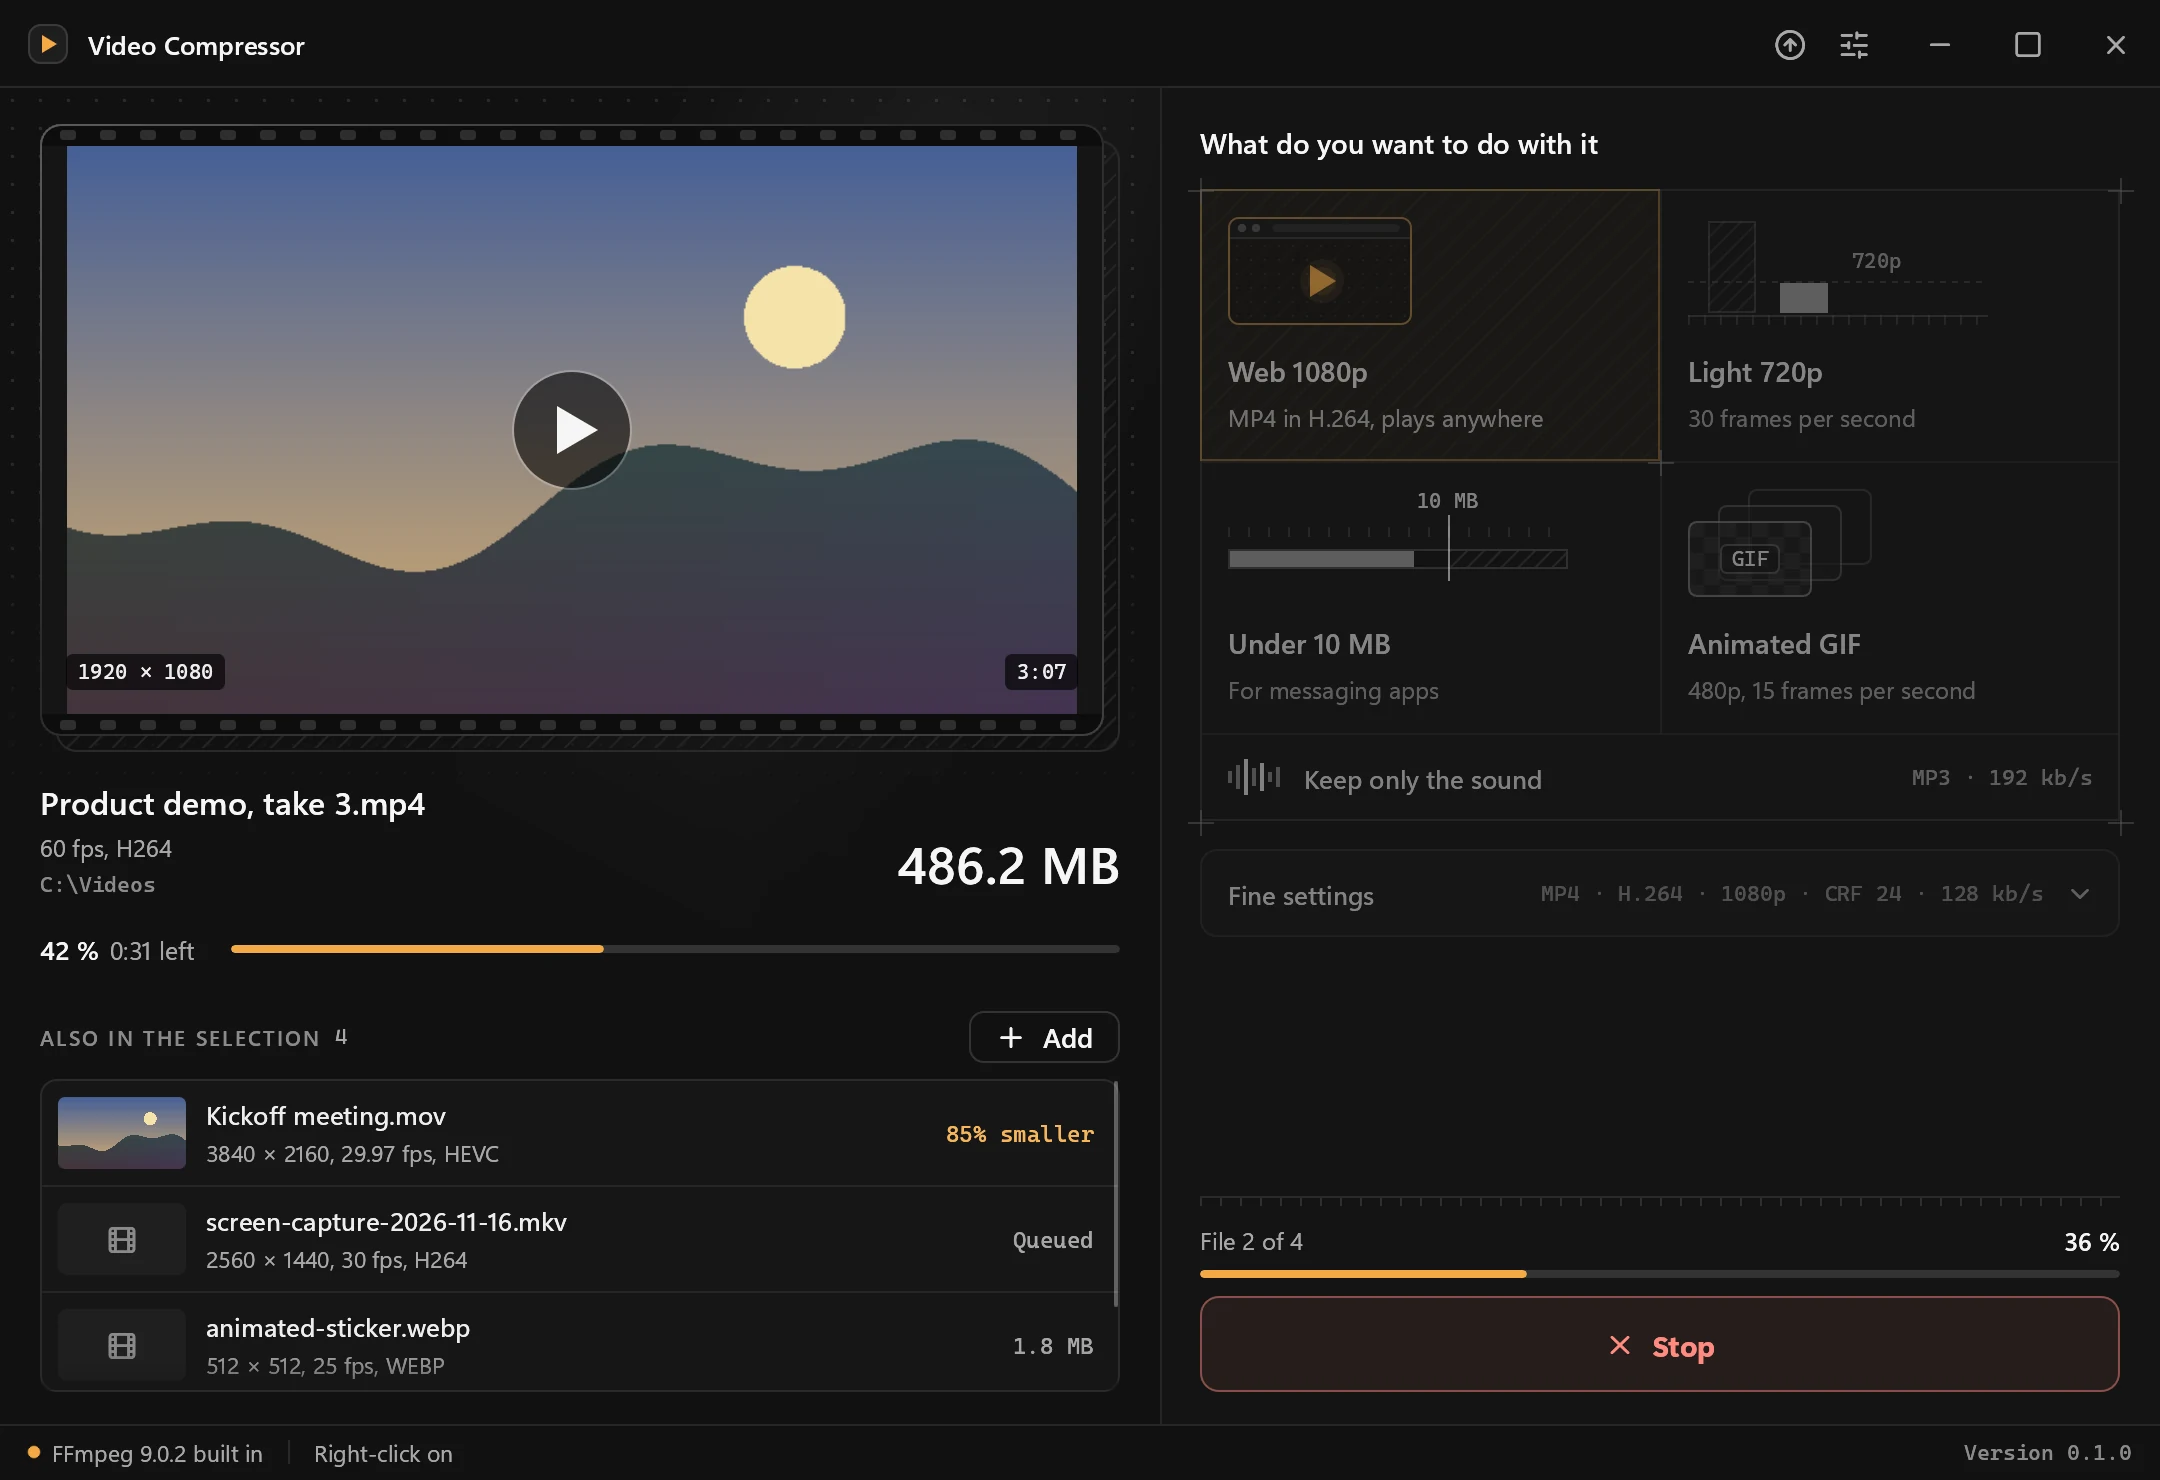
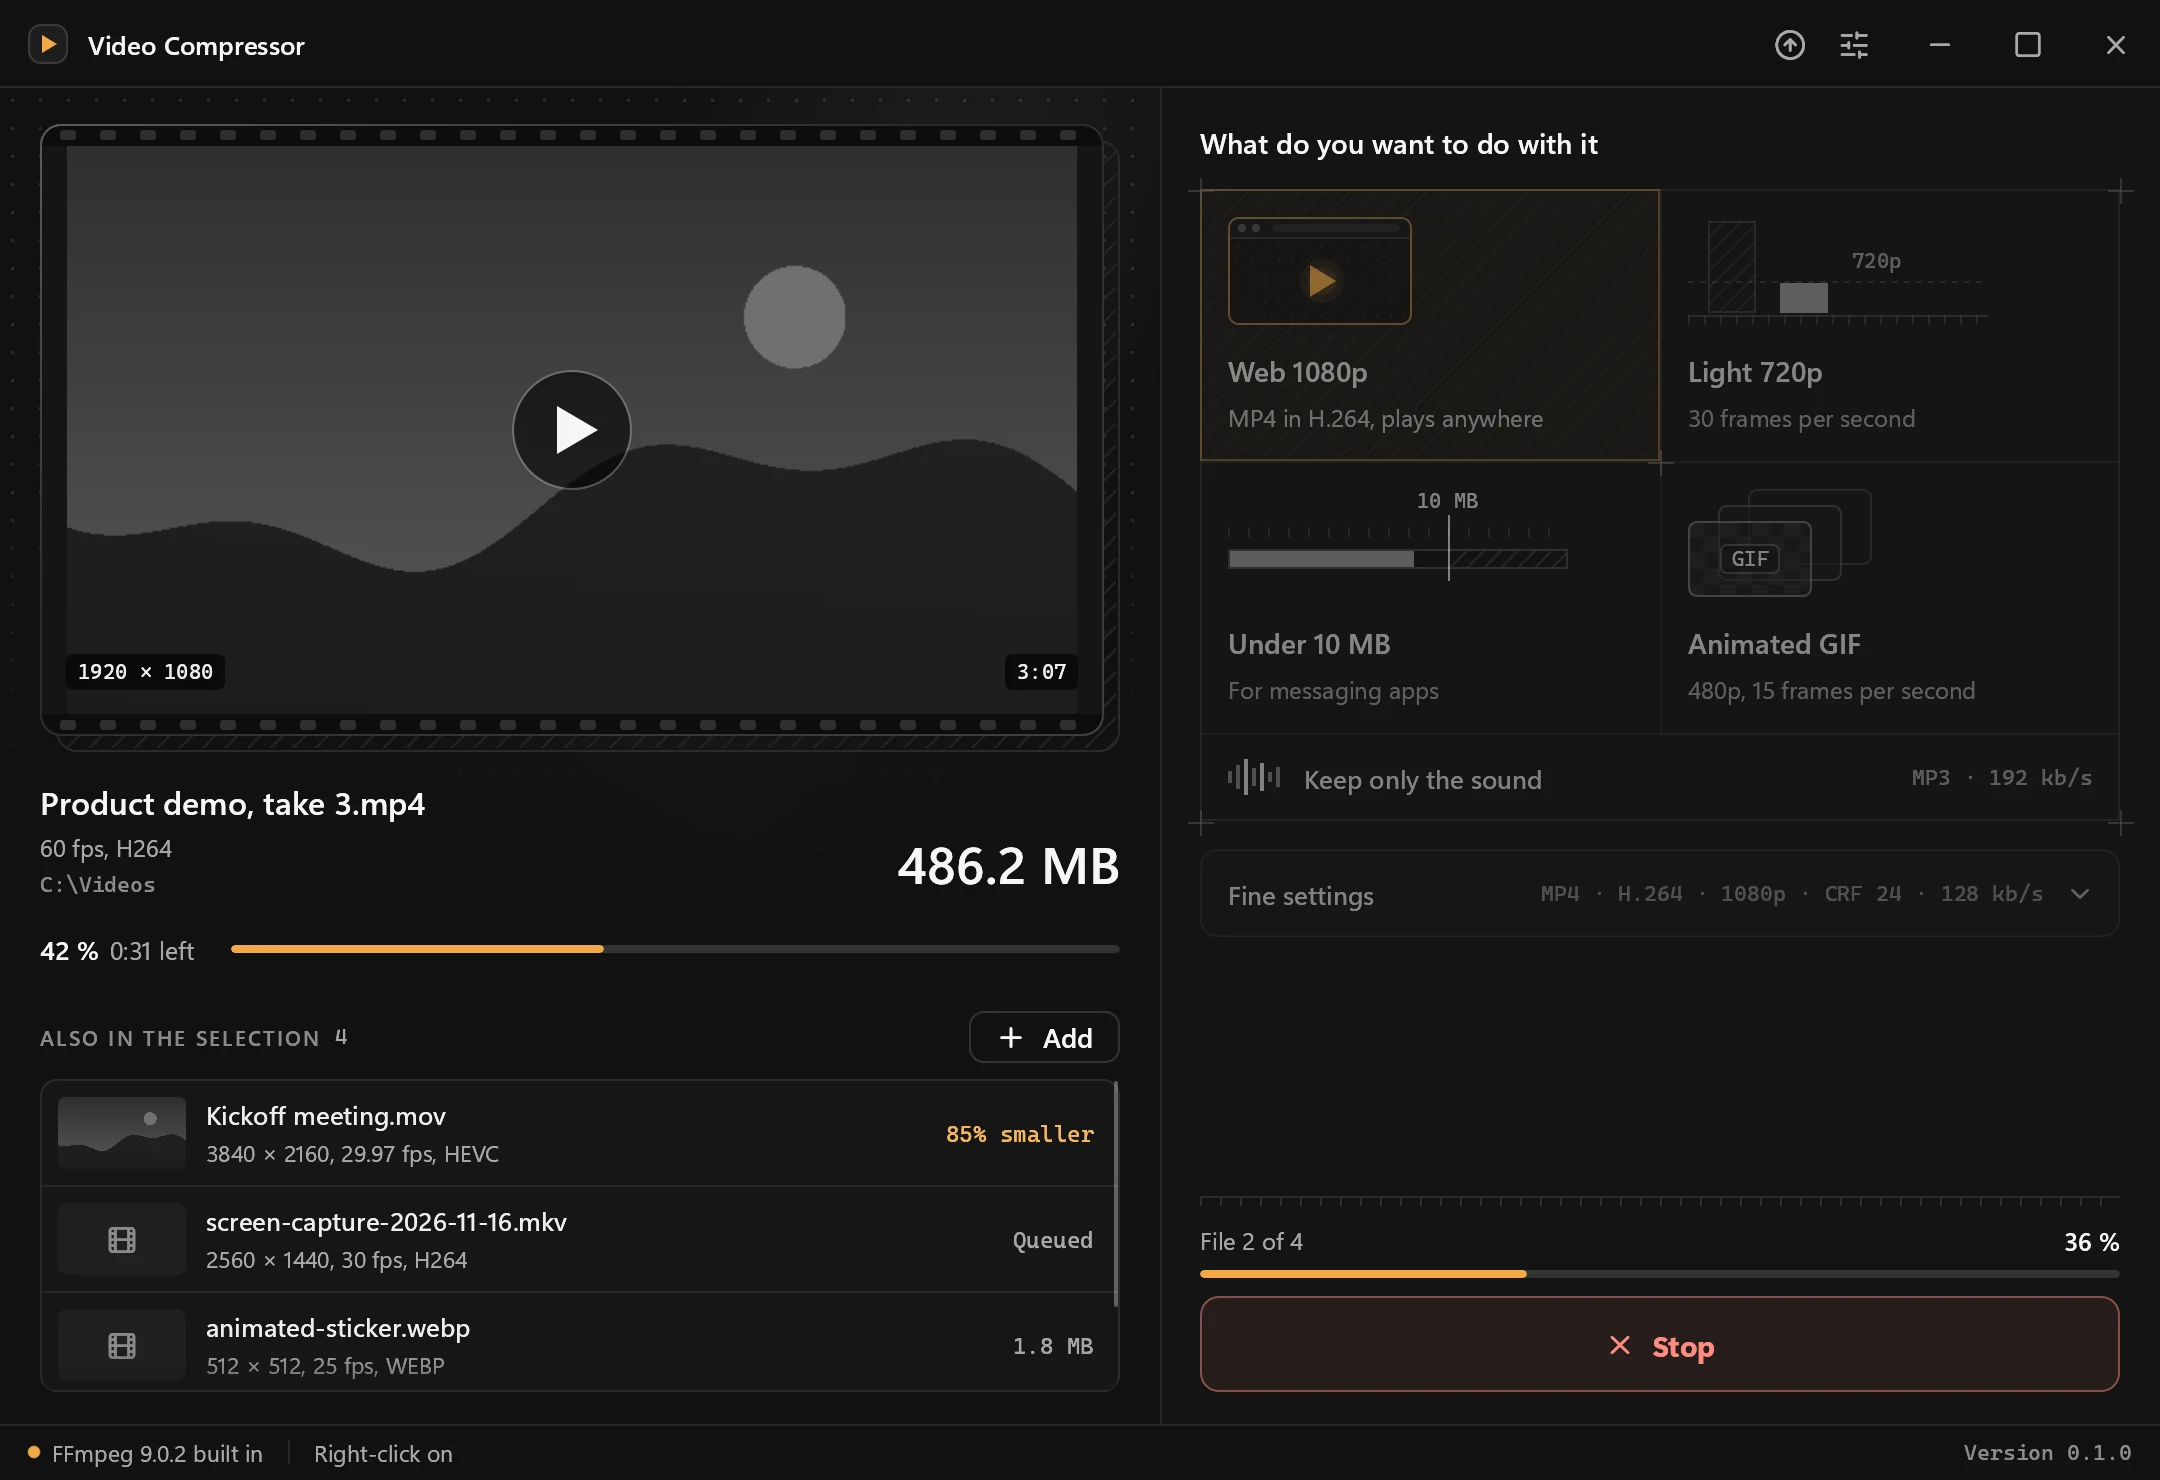
Assombrir le site : dégradés gris, image de la vidéo en noir et blanc
Les lueurs du fond, le filet du cadre et le liseré des cartes passent au gris,
bien plus sombres ; l'ambre ne reste qu'aux boutons et aux étiquettes. L'image
de synthèse des captures est en noir et blanc et plus foncée, pour ne pas
prendre le pas sur l'interface.

Changed region(s): [[0.031, 0.0932, 0.4963, 0.4973], [0.0, 0.7149, 0.0931, 0.8081]]

diff --git a/landing/index.html b/landing/index.html
@@ -11,7 +11,7 @@
     <link rel="icon" href="./icon.svg" />
     <link rel="apple-touch-icon" href="./icon/128.png" />
     <link rel="canonical" href="https://djdevpro.github.io/video-compressor/" />
-    <meta name="theme-color" content="#111110" />
+    <meta name="theme-color" content="#0c0c0c" />
     <meta name="author" content="Youcef Djidjelli" />
 
     <meta property="og:type" content="website" />
@@ -45,14 +45,14 @@
     </script>
     <style>
       :root {
-        --bg: #111110;
-        --text: #efede8;
-        --muted: #a8a49b;
-        --faint: #78746b;
+        --bg: #0c0c0c;
+        --text: #ededed;
+        --muted: #a3a3a3;
+        --faint: #727272;
         --accent: #e89c39;
         --accent-2: #f4a945;
         --accent-3: #ffbb62;
-        --line: rgba(244, 169, 69, 0.14);
+        --line: rgba(255, 255, 255, 0.1);
       }
 
       * {
@@ -68,9 +68,9 @@
         font: 16px/1.6 system-ui, -apple-system, 'Segoe UI', sans-serif;
         color: var(--text);
         background:
-          radial-gradient(55% 42% at 50% -4%, rgba(244, 169, 69, 0.17), transparent 70%),
-          radial-gradient(40% 34% at 88% 28%, rgba(244, 169, 69, 0.06), transparent 70%),
-          radial-gradient(46% 36% at 8% 76%, rgba(244, 169, 69, 0.06), transparent 70%),
+          radial-gradient(55% 42% at 50% -4%, rgba(255, 255, 255, 0.045), transparent 70%),
+          radial-gradient(40% 34% at 88% 28%, rgba(255, 255, 255, 0.014), transparent 70%),
+          radial-gradient(46% 36% at 8% 76%, rgba(255, 255, 255, 0.014), transparent 70%),
           var(--bg);
         min-height: 100vh;
       }
@@ -103,7 +103,7 @@
         height: 84px;
         margin: 0 auto 26px;
         display: block;
-        filter: drop-shadow(0 0 28px rgba(244, 169, 69, 0.3)) drop-shadow(0 6px 18px rgba(0, 0, 0, 0.5));
+        filter: drop-shadow(0 6px 18px rgba(0, 0, 0, 0.6));
       }
 
       h1 {
@@ -157,7 +157,7 @@
         text-decoration: none;
         color: var(--text);
         background: linear-gradient(180deg, rgba(255, 255, 255, 0.07), rgba(255, 255, 255, 0.02));
-        border: 1px solid rgba(244, 169, 69, 0.22);
+        border: 1px solid rgba(255, 255, 255, 0.14);
         box-shadow:
           inset 0 1px 0 rgba(255, 255, 255, 0.07),
           0 1px 2px rgba(0, 0, 0, 0.3),
@@ -167,7 +167,7 @@
 
       .btn:hover {
         transform: translateY(-1px);
-        border-color: rgba(244, 169, 69, 0.4);
+        border-color: rgba(255, 255, 255, 0.28);
       }
 
       .btn.primary {
@@ -177,7 +177,7 @@
         box-shadow:
           inset 0 1px 0 rgba(255, 255, 255, 0.45),
           0 1px 2px rgba(0, 0, 0, 0.35),
-          0 10px 32px -8px rgba(244, 169, 69, 0.5);
+          0 10px 28px -12px rgba(244, 169, 69, 0.28);
       }
 
       .btn svg {
@@ -195,13 +195,12 @@
         /* gradient border: 1px padding + inner surface */
         padding: 1px;
         border-radius: 18px;
-        background: linear-gradient(180deg, rgba(244, 169, 69, 0.38), rgba(244, 169, 69, 0.05) 55%, rgba(244, 169, 69, 0.12));
+        background: linear-gradient(180deg, rgba(255, 255, 255, 0.2), rgba(255, 255, 255, 0.04) 55%, rgba(255, 255, 255, 0.09));
         box-shadow:
           0 0 0 1px rgba(0, 0, 0, 0.4),
           0 2px 4px rgba(0, 0, 0, 0.3),
           0 12px 24px -8px rgba(0, 0, 0, 0.5),
-          0 32px 80px -16px rgba(0, 0, 0, 0.6),
-          0 0 120px -24px rgba(244, 169, 69, 0.32);
+          0 32px 80px -16px rgba(0, 0, 0, 0.7);
       }
 
       .frame-inner {
@@ -241,7 +240,7 @@
 
       .view:hover {
         color: var(--text);
-        border-color: rgba(244, 169, 69, 0.3);
+        border-color: rgba(255, 255, 255, 0.22);
       }
 
       .view[aria-pressed='true'] {
@@ -328,7 +327,7 @@
         flex: none;
         padding: 1px;
         border-radius: 14px;
-        background: rgba(244, 169, 69, 0.1);
+        background: rgba(255, 255, 255, 0.07);
         overflow: hidden;
         transition: transform 0.25s ease, box-shadow 0.25s ease;
       }
@@ -340,8 +339,8 @@
         background: conic-gradient(
           from var(--spin),
           transparent 0deg,
-          rgba(244, 169, 69, 0.5) 38deg,
-          rgba(244, 169, 69, 0.14) 80deg,
+          rgba(255, 255, 255, 0.3) 38deg,
+          rgba(255, 255, 255, 0.08) 80deg,
           transparent 130deg
         );
         opacity: 0.65;
@@ -365,7 +364,7 @@
         transform: translateY(-4px);
         box-shadow:
           0 6px 16px -8px rgba(0, 0, 0, 0.6),
-          0 22px 48px -16px rgba(244, 169, 69, 0.32);
+          0 22px 48px -16px rgba(0, 0, 0, 0.7);
       }
 
       .card:hover::before {
@@ -377,7 +376,7 @@
         height: 100%;
         border-radius: 13px;
         padding: 18px 18px 16px;
-        background: linear-gradient(180deg, #181715, #121110);
+        background: linear-gradient(180deg, #151515, #0f0f0f);
         box-shadow: inset 0 1px 0 rgba(255, 255, 255, 0.03);
       }
 

diff --git a/scripts/landing-shots.py b/scripts/landing-shots.py
@@ -22,7 +22,7 @@ for view in VIEWS:
     shot = Image.open(os.path.join(CAPTURES, f"site-en-{view}.png")).convert("RGB")
     shot.save(os.path.join(LANDING, "shots", f"{view}.webp"), quality=88, method=6)
 
-BG, GLOW, LINE = (17, 17, 16), (244, 169, 69), (244, 169, 69)
+BG, GLOW, LINE = (12, 12, 12), (120, 120, 120), (255, 255, 255)
 
 
 def stage(capture, size, width, top):
@@ -30,7 +30,7 @@ def stage(capture, size, width, top):
     W, H = size
     out = Image.new("RGB", size, BG)
     halo = Image.new("L", size, 0)
-    ImageDraw.Draw(halo).ellipse((W * 0.12, -H * 0.62, W * 0.88, H * 0.5), fill=70)
+    ImageDraw.Draw(halo).ellipse((W * 0.12, -H * 0.62, W * 0.88, H * 0.5), fill=34)
     out = Image.composite(Image.new("RGB", size, GLOW), out, halo.filter(ImageFilter.GaussianBlur(160)))
     shot = Image.open(os.path.join(CAPTURES, capture)).convert("RGB")
     shot = shot.resize((width, round(shot.height * width / shot.width)), Image.LANCZOS)
@@ -41,7 +41,7 @@ def stage(capture, size, width, top):
     ImageDraw.Draw(shadow).rounded_rectangle((box[0], box[1] + 40, box[2], box[3] + 40), radius, fill=200)
     out = Image.composite(Image.new("RGB", size, (0, 0, 0)), out, shadow.filter(ImageFilter.GaussianBlur(60)))
     border = Image.new("L", size, 0)
-    ImageDraw.Draw(border).rounded_rectangle((box[0] - 2, box[1] - 2, box[2] + 2, box[3] + 2), radius + 2, fill=44)
+    ImageDraw.Draw(border).rounded_rectangle((box[0] - 2, box[1] - 2, box[2] + 2, box[3] + 2), radius + 2, fill=34)
     out = Image.composite(Image.new("RGB", size, LINE), out, border)
     mask = Image.new("L", shot.size, 0)
     ImageDraw.Draw(mask).rounded_rectangle((0, 0, shot.width - 1, shot.height - 1), radius, fill=255)

diff --git a/src/tests.rs b/src/tests.rs
@@ -73,7 +73,8 @@ fn fill(app: &mut App) {
     app.menu_on = true;
 }
 
-/// Une image de synthèse en 16/9, pour voir l'aperçu en grand dans les captures.
+/// Une image de synthèse en 16/9, en noir et blanc et sombre, pour voir l'aperçu en grand dans
+/// les captures sans qu'elle prenne le pas sur l'interface.
 fn picture(h: &Harness<'static, App>) -> egui::TextureHandle {
     let (w, hgt) = (640usize, 360usize);
     let mut rgba = Vec::with_capacity(w * hgt * 4);
@@ -90,7 +91,8 @@ fn picture(h: &Harness<'static, App>) -> egui::TextureHandle {
             } else {
                 [(70.0 + 150.0 * fy) as u8, (96.0 + 80.0 * fy) as u8, (150.0 - 40.0 * fy) as u8]
             };
-            rgba.extend_from_slice(&[color[0], color[1], color[2], 255]);
+            let gray = ((0.299 * f32::from(color[0]) + 0.587 * f32::from(color[1]) + 0.114 * f32::from(color[2])) * 0.5) as u8;
+            rgba.extend_from_slice(&[gray, gray, gray, 255]);
         }
     }
     h.ctx.load_texture("mire", egui::ColorImage::from_rgba_unmultiplied([w, hgt], &rgba), egui::TextureOptions::LINEAR)
